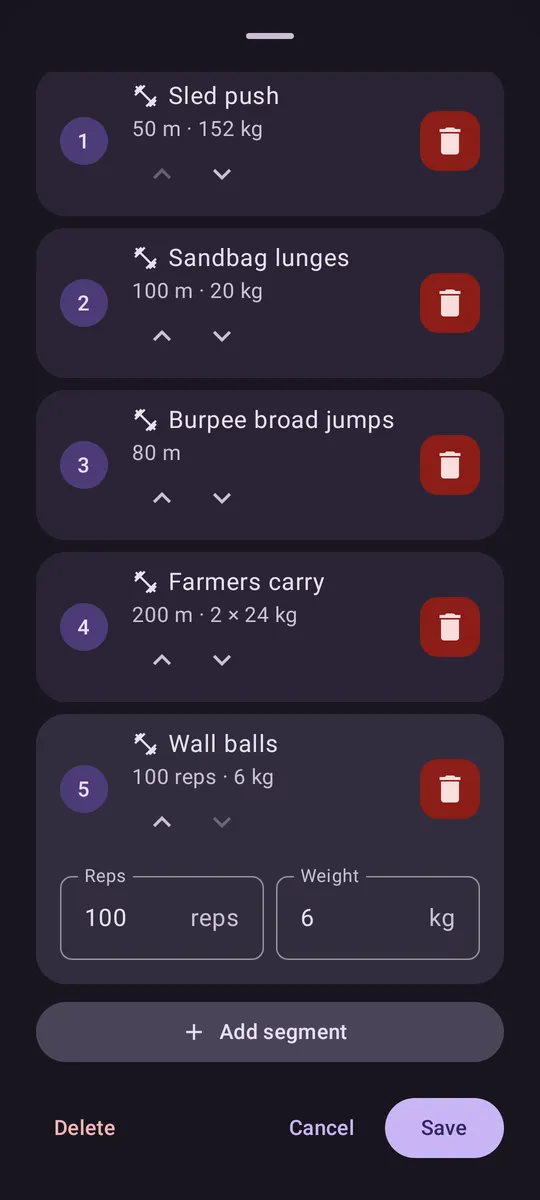
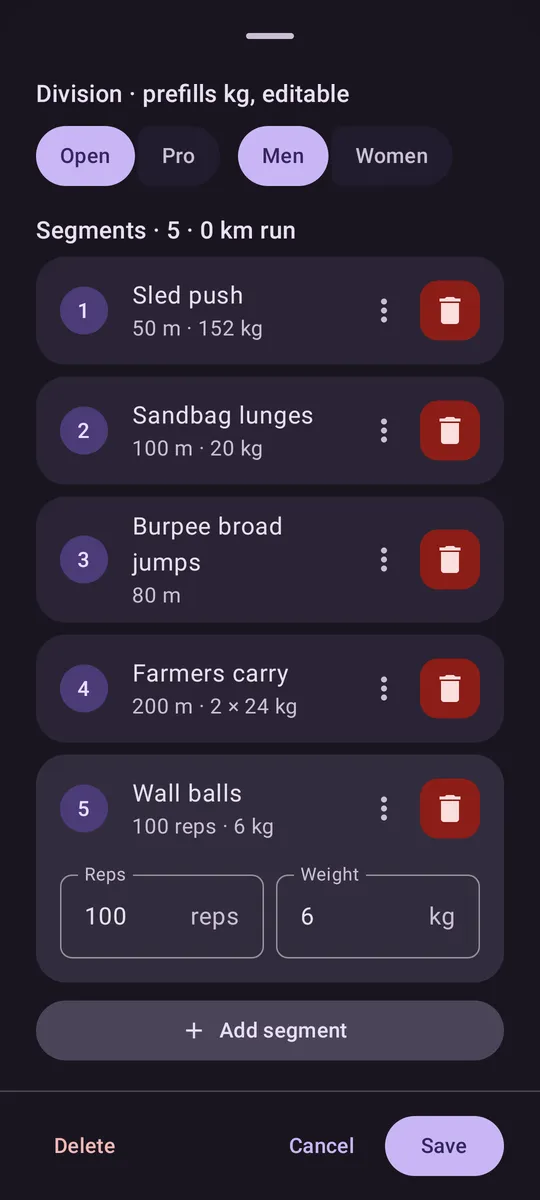
Help: 2.1.4 race editor (⋮ reorder, pinned Save, segment picker sheet)

diff --git a/help/index.html b/help/index.html
@@ -21,7 +21,7 @@
 </head>
 <body>
   <h1>How to use Liftloq</h1>
-  <p class="meta">Local workout calendar · No account required · Updated for version 2.1.3</p>
+  <p class="meta">Local workout calendar · No account required · Updated for version 2.1.4</p>
 
   <p>Liftloq keeps your workout plan on your device. Mark days on the calendar, manage workout types, plan and time HYROX workouts, and optionally track supplement spending — without signing in.</p>
 
@@ -69,7 +69,7 @@
 
   <h2>4. HYROX β</h2>
   <ol class="steps">
-    <li><strong>Builder:</strong> menu (☰) → <strong>HYROX (beta)</strong> → <strong>+</strong>. Name the workout, pick a colour and division, then tap <strong>+ Full race</strong> for the 16 official segments or <strong>+ Add segment</strong> to pick runs and stations from a grouped list. A new segment opens ready to edit (distance or reps, weight); tap any card to open it, use the arrows under the name to reorder and the red trash to delete it (you confirm first). Then <strong>Save</strong>.</li>
+    <li><strong>Builder:</strong> menu (☰) → <strong>HYROX (beta)</strong> → <strong>+</strong>. Name the workout, pick a colour and division, then tap <strong>+ Full race</strong> for the 16 official segments or <strong>+ Add segment</strong> to pick a run or station from the list (sorted into Runs and Stations). A new segment opens ready to edit (distance or reps, weight); tap any card to open it, use <strong>⋮</strong> → <strong>Move up</strong> / <strong>Move down</strong> to reorder, and the red trash to delete it (you confirm first). The list scrolls; <strong>Cancel</strong> and <strong>Save</strong> stay at the bottom.</li>
     <li><strong>Delete:</strong> on the HYROX list, tap the red trash on a workout (or Delete inside the editor). Confirm — sessions are removed and the workout is cleared from every calendar day. Official race is not re-seeded after you delete it.</li>
     <li><strong>Plan it:</strong> on a day sheet, open <strong>HYROX workouts</strong> and pick one or more, then <strong>Save</strong>.</li>
     <li><strong>Start HYROX:</strong> on a day with a planned HYROX workout, a <strong>Start HYROX</strong> button appears above the add button. With several planned, it opens a menu to choose one.</li>
@@ -91,8 +91,12 @@
   </figure>
 
   <figure>
+    <img src="images/help-hyrox-picker.webp" alt="Add segment picker with Runs and Stations" loading="lazy" width="540" height="1200" />
+    <figcaption>Add segment: Runs and Stations, each with its default distance, reps and weight.</figcaption>
+  </figure>
+  <figure>
     <img src="images/help-hyrox-builder.webp" alt="HYROX workout builder" loading="lazy" width="540" height="1200" />
-    <figcaption>Segment cards: number, icon, summary, reorder and delete; the newly added segment is open for editing.</figcaption>
+    <figcaption>Segment cards: number, name, summary, ⋮ to reorder and the red delete; the newly added segment is open for editing.</figcaption>
   </figure>
   <figure>
     <img src="images/help-start-hyrox-menu.webp" alt="Start HYROX menu with two planned workouts" loading="lazy" width="540" height="1200" />
